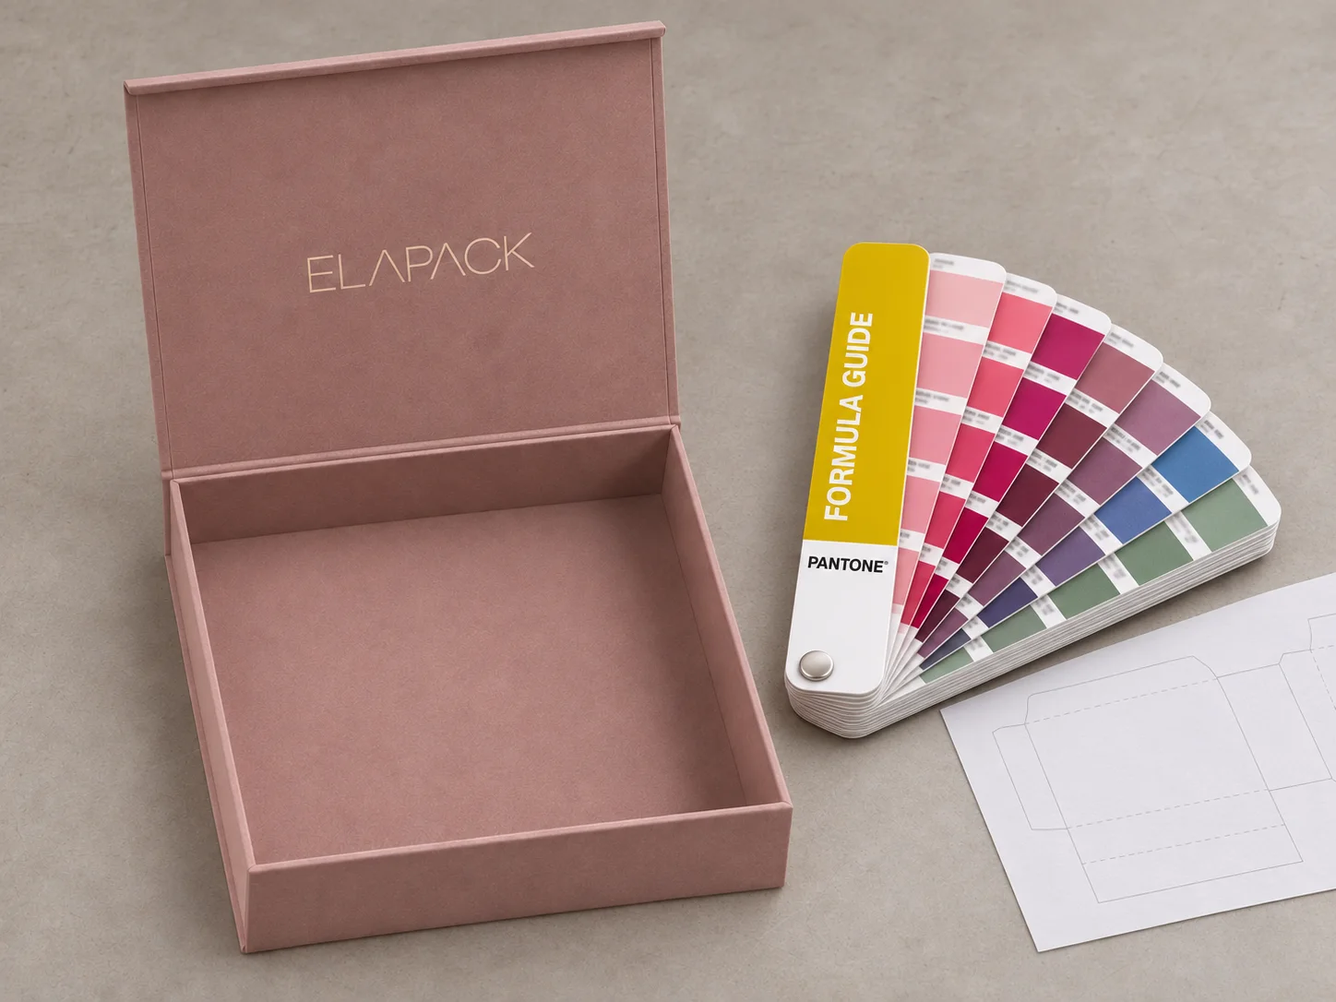
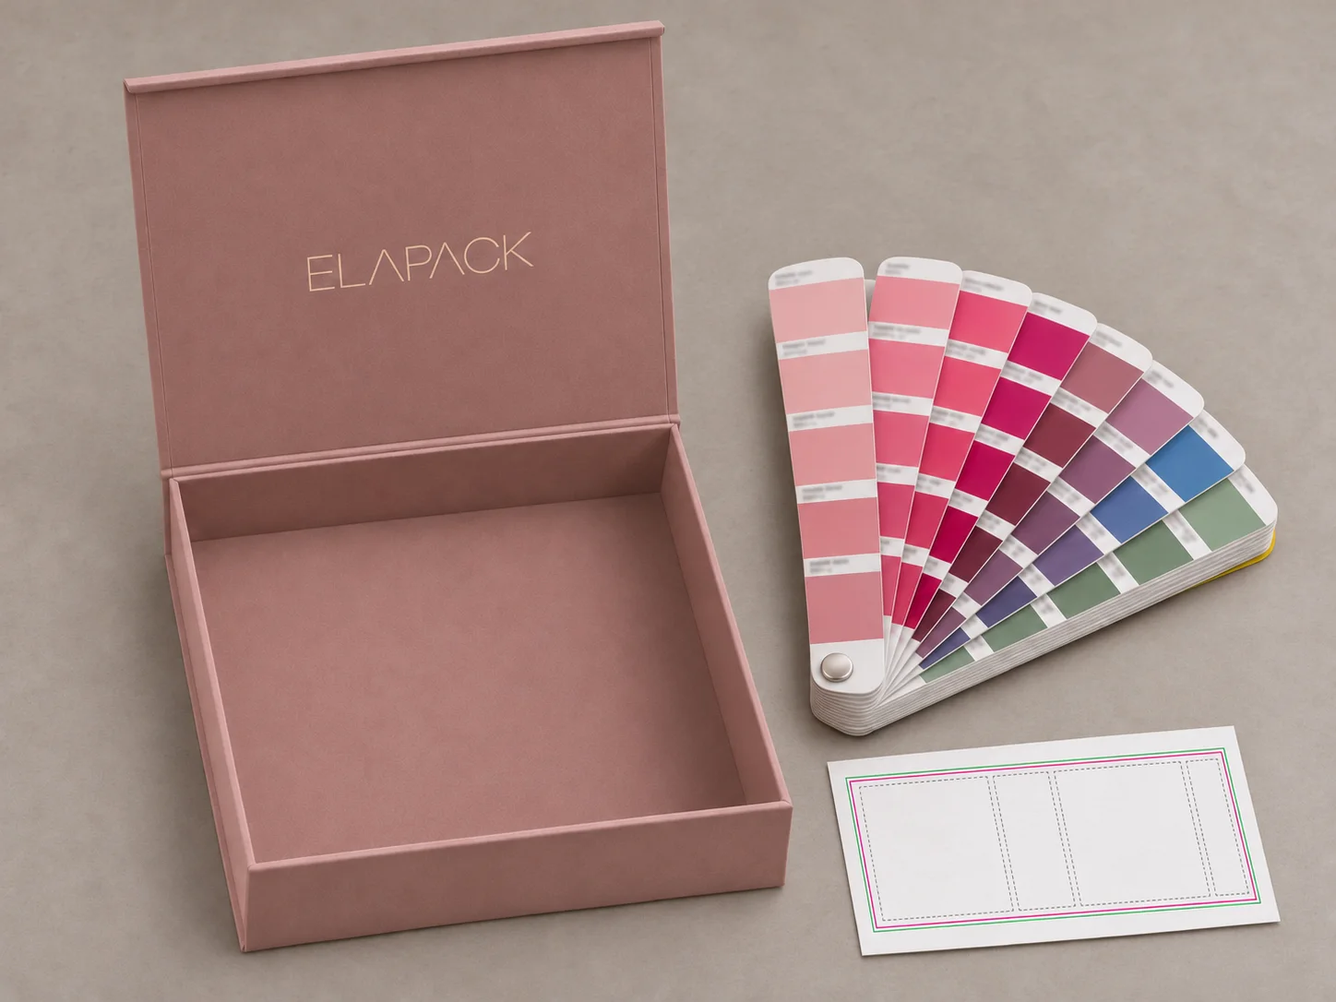
content(mothers-day): replace sample approval image
Claude-Session: https://claude.ai/code/session_01DKuRwisz2HQeega5Ni4rBJ

diff --git a/src/data/articles.ts b/src/data/articles.ts
@@ -849,7 +849,7 @@ export const articles: Article[] = ([
     "imageHeight": 1350,
     "excerpt": "Mother's Day 2027 is May 9 in the US and March 7 in the UK. With the factory closed for Chinese New Year from late January to about February 20, here are the three routes that still arrive on time.",
     "metaDescription": "Mother's Day 2027 is May 9 (US) and March 7 (UK). With factories closed from late January to about February 20, here is when to order gift boxes, pouches and cards.",
-    "body": "*Holiday dates are taken from published calendars cited under Sources. Factory closure dates, sample, production and freight figures are ELAPACK's confirmed terms for the 2027 season; warehouse and fulfilment dates are planning assumptions to replace with your own calendar.*\n\n> **Quick answer:** Mother's Day 2027 is Sunday, May 9 in the US and Sunday, March 7 in the UK. Our factory closes for Chinese New Year from the end of January to around February 20, so the dates that matter are earlier than they look: for UK Mothering Sunday, produce and ship before the shutdown, with the sample approved in December; for the US, either produce before the shutdown, or approve the sample before it and ship by sea in mid-March, or ship by air in early April. Production that finishes after April 30 waits out the May 1–5 holiday and lands after May 9.\n\nThis guide is for brands planning Mother's Day gift sets, gift-with-purchase pouches or seasonal boxes made in China. It does not cover design themes or pricing. It answers one question: when does each step have to happen for packaging to arrive in time?\n\n## Key takeaways\n\n- Mother's Day 2027 falls on **May 9 in the US** and **March 7 in the UK** (Mothering Sunday, three weeks before Easter).\n- Chinese New Year 2027 is an official holiday from February 5 to 13. Our factory closes from the end of January and returns to normal production around **February 20** — a stop of about three weeks in the middle of the spring ordering window.\n- **UK, March 7:** production after the restart finishes too late. Approve the sample by late December and finish production before the shutdown.\n- **US, May 9:** three routes work — produce before the shutdown; approve the sample before the shutdown and ship by sea in mid-March; or ship by air in early April.\n- The **May 1–5** Labour Day holiday is the last wall: anything not dispatched by April 30 restarts on May 6 and arrives after Mother's Day.\n- ELAPACK clocks: custom sample USD 30 plus USD 25 shipping, built in 3–5 days; production 15–20 days after sample approval and payment receipt; US transit about 8–12 days by air or 15–20 days by sea. MOQ 200 pieces per component.\n\n## When is Mother's Day 2027?\n\n| Market | Date | How the date is set |\n|---|---|---|\n| United States | Sunday, May 9, 2027 | Second Sunday of May |\n| United Kingdom | Sunday, March 7, 2027 | Mothering Sunday, the fourth Sunday of Lent, three weeks before Easter |\n| Mexico and much of Latin America | Monday, May 10, 2027 | Fixed on May 10 |\n\nThe two dates are two months apart, and in 2027 the UK date is early. A brand selling in both markets is really running two programmes: a UK one that has to be finished before Chinese New Year, and a US one that can straddle it.\n\n## Why does Chinese New Year decide a May delivery date?\n\nBecause the factory stops for about three weeks in the middle of the window, and nothing in the chain moves while it is closed.\n\n| 2027 holiday | Official dates | What it means for your order |\n|---|---|---|\n| New Year's Day | January 1–3 | A short stop; production resumes January 4 |\n| Chinese New Year | February 5–13 (official) | **ELAPACK closes from the end of January and returns to normal production around February 20** |\n| Qingming Festival | April 3–5 | An official holiday inside the air route's production window; confirm the working days with your supplier |\n| Labour Day | May 1–5 (official, with May 8 a working day) | No production or dispatch; air shipments restart May 6 |\n\nThe official holiday is nine days, but the working stop is longer. Production lines wind down before New Year's Eve, as staff travel home, and restart over the following week. That is why the closure runs from the end of January to around February 20, not from February 5 to 13. Plan on the factory dates, not the official ones.\n\nTwo things follow:\n\n1. **A sample approved after the shutdown starts production after February 20 at the earliest**, behind every order that was confirmed before the holiday.\n2. **Freight space usually tightens before the holiday**, as factories across China try to ship before they close. Book freight early in January rather than in the last week.\n\n## How do you count back from May 9?\n\n![Mother's Day 2027 timeline: Route A produces before the Chinese New Year shutdown, Route B approves the sample before it and ships by sea in mid-March, Route C ships by air in early April; UK March 7 and US May 9 marked](/charts/mothers-day-2027-timeline.svg)\n\nStart from the date the packaging must be in your warehouse, not from May 9 itself. Gift sets need packing and listing time, and Mother's Day promotions start well before the day. This guide assumes **packaging in a US warehouse by about April 10–16**; move every date below if your own calendar is earlier.\n\n### Route A — produce before the shutdown (UK or US)\n\nThe safest route, and the only one that works for March 7.\n\n| Step | Date |\n|---|---|\n| Artwork and dieline final | by December 11, 2026 |\n| Custom sample built (3–5 days) and approved | by December 23, 2026 |\n| Payment received; production starts | January 4, 2027 |\n| Production finishes (15–20 days) | around January 20–24 |\n| Dispatch | before the end-of-January shutdown |\n| In a US warehouse by sea (15–20 days plus clearance) | late February |\n\nFor the UK, confirm the transit time to your warehouse with your forwarder before choosing sea or air: March 7 leaves little room for a long sea crossing.\n\n![Blush magnetic gift box sample with a gold foil logo beside a Pantone colour guide and a printed dieline, ready for colour and structure approval](/images/news/mothers-day-sample-approval.webp)\n\nThe sample round is where colour and structure are fixed: the box is checked against the Pantone reference and the approved dieline before production is booked.\n\n### Route B — approve before the shutdown, ship by sea after it (US)\n\n| Step | Date |\n|---|---|\n| Artwork and dieline final | by January 8, 2027 |\n| Sample approved and payment received | **by January 22, before the shutdown** |\n| Production after restart | around February 22 to March 14 |\n| Sea dispatch | mid-March |\n| In a US warehouse (15–20 days plus clearance) | around April 10 |\n\nThis route has **no buffer**. A second sample round, a late payment or a slow customs clearance pushes arrival past mid-April. Use it only if the design is settled and the brief has been sampled before.\n\n### Route C — sample after the restart, ship by air (US)\n\n| Step | Date |\n|---|---|\n| Artwork and dieline final | by February 26, 2027 |\n| Sample built after restart and approved | by March 12 |\n| Production | around March 15 to April 4 |\n| Air dispatch | early April |\n| In a US warehouse (about 8–12 days) | around April 12–16 |\n\nAir freight costs more per kilo than sea, so Route C suits lighter items — pouches, cards and small boxes — or smaller quantities. A large run of rigid gift boxes is usually cheaper on Route A or B.\n\n## What is the last safe date for each step?\n\n| Step | Last safe date for a May 9 US programme |\n|---|---|\n| Sea: sample approved and paid | January 22 (before the shutdown) |\n| Sea: dispatch from China | mid-March |\n| Air: sample approved | mid-March |\n| Air: dispatch from China | April 30 — after this, the May 1–5 holiday holds dispatch until May 6 |\n\nThe April 30 date is a wall, not a target. Air freight dispatched on May 6 arrives from about May 14, after Mother's Day. Packaging that misses it can only be used for a post-holiday or next-season promotion.\n\n## What about UK Mothering Sunday on March 7?\n\nIt sits two weeks after the factory reopens, so production after the restart cannot make it. **For the UK, Mother's Day packaging is a December decision:** artwork final by mid-December, sample approved before Christmas, production in early January and dispatch before the end-of-January shutdown.\n\n![Navy and burgundy velvet gift-with-purchase pouches with silver foil logos, made for a UK beauty brand's seasonal promotions](/images/case-studies/velvet-gwp-pouches-hero.webp)\n\nIf you are reading this after mid-December, simplify the brief — fewer components, a structure you have sampled before, a print method already proven — and ship by air.\n\n## Which packaging should be ordered together?\n\nA Mother's Day programme is usually three or four components — a gift box, a pouch, a card and a ribbon or sleeve — and the slowest one sets the date. Order them together, on one timeline and one sample round:\n\n![Mother's Day gift set in one blush colour: a magnetic gift box with a gold foil logo holding a velvet drawstring pouch, with a matching card and satin ribbon](/images/news/mothers-day-gift-set.webp)\n\n- **Gift boxes:** [magnetic closure gift boxes](https://elapack.com/products/magnetic-closure-gift-box/) take the longest — board, wrap, insert and logo all need approval.\n- **Pouches:** [velvet pouches](https://elapack.com/products/custom-velvet-pouches/) suit gift-with-purchase programmes. For a worked example, see how a UK beauty brand [ran velvet GWP pouches](https://elapack.com/case-studies/velvet-gwp-pouches-beauty-brand/) for seasonal promotions.\n- **Cards:** [thank you and greeting cards](https://elapack.com/news/custom-thank-you-cards-guide/) are fast to print but need final copy, so lock the wording with the box artwork.\n\nEach component has a minimum of 200 pieces. Colour matching across a box and a pouch is set on the sample, so approve all components in the same round; [packaging colour tolerance](https://elapack.com/news/packaging-colour-tolerance-explained/) explains how matched colours are checked.\n\n## Your dated order plan\n\nCopy these lines into your own planning note and fill in the dates from your calendar:\n\n1. Packaging needed in the warehouse: ___ (this guide assumes April 10–16 for the US)\n2. Route: A (before the shutdown), B (sea after it) or C (air after it)\n3. Artwork and dieline final: ___\n4. Sample approved and payment sent: ___ (before January 22 for Routes A and B)\n5. Production window: ___ (15–20 days after approval and payment)\n6. Dispatch date and freight mode: ___ (air no later than April 30)\n\n[Send your components, quantities and target warehouse date](https://elapack.com/contact/) and we will confirm the route and dates in the quotation. We reply within one business day. For the same planning method applied to other holidays, see the [Valentine's Day](https://elapack.com/news/valentines-day-packaging-timeline/) and [Christmas](https://elapack.com/news/christmas-packaging-ordering-timeline/) timelines.\n\n## Frequently asked questions\n\n### When should I order Mother's Day packaging from China?\n\nFor the US, approve the sample before the end of January if you ship by sea, or by mid-March if you ship by air. For the UK, approve it before Christmas. Artwork has to be final one to two weeks before each of those dates.\n\n### How long is the Chinese New Year factory shutdown in 2027?\n\nThe official holiday is February 5–13. ELAPACK closes from the end of January and returns to normal production around February 20, about three weeks in total. Other factories set their own dates, so ask each supplier.\n\n### Can packaging still arrive for Mother's Day if I order in March?\n\nYes, for the US, by air: approve the sample by mid-March and the order can ship in early April. Production that is not finished and dispatched by April 30 waits for the May 1–5 holiday to end and arrives after May 9.\n\n### Is there a factory holiday in May?\n\nYes. Labour Day runs from May 1 to 5, 2027. ELAPACK does not produce or dispatch during those days.\n\n## Sources\n\n- General Office of the State Council, \"Notice on the arrangement of some holidays in 2027\" (published November 5, 2026), via Xinhua — https://www.news.cn/politics/20261105/f90cd6ad4df94ab4833b141e52ccfc13/c.html\n- Office Holidays, \"Mother's Day in USA in 2027\" — https://www.officeholidays.com/countries/usa/mothers_day.php\n- Office Holidays, \"Mothering Sunday in United Kingdom in 2027\" — https://www.officeholidays.com/holidays/united-kingdom/mothering-sunday\n- ELAPACK confirmed terms (2027 season): factory closed from the end of January to around February 20 for Chinese New Year and May 1–5 for Labour Day; custom sample USD 30 plus USD 25 shipping, built in 3–5 days; production 15–20 days after sample approval and payment receipt for 200–20,000 pieces; US transit about 8–12 days by air or 15–20 days by sea; MOQ 200 pieces per component."
+    "body": "*Holiday dates are taken from published calendars cited under Sources. Factory closure dates, sample, production and freight figures are ELAPACK's confirmed terms for the 2027 season; warehouse and fulfilment dates are planning assumptions to replace with your own calendar.*\n\n> **Quick answer:** Mother's Day 2027 is Sunday, May 9 in the US and Sunday, March 7 in the UK. Our factory closes for Chinese New Year from the end of January to around February 20, so the dates that matter are earlier than they look: for UK Mothering Sunday, produce and ship before the shutdown, with the sample approved in December; for the US, either produce before the shutdown, or approve the sample before it and ship by sea in mid-March, or ship by air in early April. Production that finishes after April 30 waits out the May 1–5 holiday and lands after May 9.\n\nThis guide is for brands planning Mother's Day gift sets, gift-with-purchase pouches or seasonal boxes made in China. It does not cover design themes or pricing. It answers one question: when does each step have to happen for packaging to arrive in time?\n\n## Key takeaways\n\n- Mother's Day 2027 falls on **May 9 in the US** and **March 7 in the UK** (Mothering Sunday, three weeks before Easter).\n- Chinese New Year 2027 is an official holiday from February 5 to 13. Our factory closes from the end of January and returns to normal production around **February 20** — a stop of about three weeks in the middle of the spring ordering window.\n- **UK, March 7:** production after the restart finishes too late. Approve the sample by late December and finish production before the shutdown.\n- **US, May 9:** three routes work — produce before the shutdown; approve the sample before the shutdown and ship by sea in mid-March; or ship by air in early April.\n- The **May 1–5** Labour Day holiday is the last wall: anything not dispatched by April 30 restarts on May 6 and arrives after Mother's Day.\n- ELAPACK clocks: custom sample USD 30 plus USD 25 shipping, built in 3–5 days; production 15–20 days after sample approval and payment receipt; US transit about 8–12 days by air or 15–20 days by sea. MOQ 200 pieces per component.\n\n## When is Mother's Day 2027?\n\n| Market | Date | How the date is set |\n|---|---|---|\n| United States | Sunday, May 9, 2027 | Second Sunday of May |\n| United Kingdom | Sunday, March 7, 2027 | Mothering Sunday, the fourth Sunday of Lent, three weeks before Easter |\n| Mexico and much of Latin America | Monday, May 10, 2027 | Fixed on May 10 |\n\nThe two dates are two months apart, and in 2027 the UK date is early. A brand selling in both markets is really running two programmes: a UK one that has to be finished before Chinese New Year, and a US one that can straddle it.\n\n## Why does Chinese New Year decide a May delivery date?\n\nBecause the factory stops for about three weeks in the middle of the window, and nothing in the chain moves while it is closed.\n\n| 2027 holiday | Official dates | What it means for your order |\n|---|---|---|\n| New Year's Day | January 1–3 | A short stop; production resumes January 4 |\n| Chinese New Year | February 5–13 (official) | **ELAPACK closes from the end of January and returns to normal production around February 20** |\n| Qingming Festival | April 3–5 | An official holiday inside the air route's production window; confirm the working days with your supplier |\n| Labour Day | May 1–5 (official, with May 8 a working day) | No production or dispatch; air shipments restart May 6 |\n\nThe official holiday is nine days, but the working stop is longer. Production lines wind down before New Year's Eve, as staff travel home, and restart over the following week. That is why the closure runs from the end of January to around February 20, not from February 5 to 13. Plan on the factory dates, not the official ones.\n\nTwo things follow:\n\n1. **A sample approved after the shutdown starts production after February 20 at the earliest**, behind every order that was confirmed before the holiday.\n2. **Freight space usually tightens before the holiday**, as factories across China try to ship before they close. Book freight early in January rather than in the last week.\n\n## How do you count back from May 9?\n\n![Mother's Day 2027 timeline: Route A produces before the Chinese New Year shutdown, Route B approves the sample before it and ships by sea in mid-March, Route C ships by air in early April; UK March 7 and US May 9 marked](/charts/mothers-day-2027-timeline.svg)\n\nStart from the date the packaging must be in your warehouse, not from May 9 itself. Gift sets need packing and listing time, and Mother's Day promotions start well before the day. This guide assumes **packaging in a US warehouse by about April 10–16**; move every date below if your own calendar is earlier.\n\n### Route A — produce before the shutdown (UK or US)\n\nThe safest route, and the only one that works for March 7.\n\n| Step | Date |\n|---|---|\n| Artwork and dieline final | by December 11, 2026 |\n| Custom sample built (3–5 days) and approved | by December 23, 2026 |\n| Payment received; production starts | January 4, 2027 |\n| Production finishes (15–20 days) | around January 20–24 |\n| Dispatch | before the end-of-January shutdown |\n| In a US warehouse by sea (15–20 days plus clearance) | late February |\n\nFor the UK, confirm the transit time to your warehouse with your forwarder before choosing sea or air: March 7 leaves little room for a long sea crossing.\n\n![Blush magnetic gift box sample with a gold foil logo beside a colour swatch fan and a printed dieline, ready for colour and structure approval](/images/news/mothers-day-sample-approval.webp)\n\nThe sample round is where colour and structure are fixed: the box is checked against the agreed colour reference and the approved dieline before production is booked.\n\n### Route B — approve before the shutdown, ship by sea after it (US)\n\n| Step | Date |\n|---|---|\n| Artwork and dieline final | by January 8, 2027 |\n| Sample approved and payment received | **by January 22, before the shutdown** |\n| Production after restart | around February 22 to March 14 |\n| Sea dispatch | mid-March |\n| In a US warehouse (15–20 days plus clearance) | around April 10 |\n\nThis route has **no buffer**. A second sample round, a late payment or a slow customs clearance pushes arrival past mid-April. Use it only if the design is settled and the brief has been sampled before.\n\n### Route C — sample after the restart, ship by air (US)\n\n| Step | Date |\n|---|---|\n| Artwork and dieline final | by February 26, 2027 |\n| Sample built after restart and approved | by March 12 |\n| Production | around March 15 to April 4 |\n| Air dispatch | early April |\n| In a US warehouse (about 8–12 days) | around April 12–16 |\n\nAir freight costs more per kilo than sea, so Route C suits lighter items — pouches, cards and small boxes — or smaller quantities. A large run of rigid gift boxes is usually cheaper on Route A or B.\n\n## What is the last safe date for each step?\n\n| Step | Last safe date for a May 9 US programme |\n|---|---|\n| Sea: sample approved and paid | January 22 (before the shutdown) |\n| Sea: dispatch from China | mid-March |\n| Air: sample approved | mid-March |\n| Air: dispatch from China | April 30 — after this, the May 1–5 holiday holds dispatch until May 6 |\n\nThe April 30 date is a wall, not a target. Air freight dispatched on May 6 arrives from about May 14, after Mother's Day. Packaging that misses it can only be used for a post-holiday or next-season promotion.\n\n## What about UK Mothering Sunday on March 7?\n\nIt sits two weeks after the factory reopens, so production after the restart cannot make it. **For the UK, Mother's Day packaging is a December decision:** artwork final by mid-December, sample approved before Christmas, production in early January and dispatch before the end-of-January shutdown.\n\n![Navy and burgundy velvet gift-with-purchase pouches with silver foil logos, made for a UK beauty brand's seasonal promotions](/images/case-studies/velvet-gwp-pouches-hero.webp)\n\nIf you are reading this after mid-December, simplify the brief — fewer components, a structure you have sampled before, a print method already proven — and ship by air.\n\n## Which packaging should be ordered together?\n\nA Mother's Day programme is usually three or four components — a gift box, a pouch, a card and a ribbon or sleeve — and the slowest one sets the date. Order them together, on one timeline and one sample round:\n\n![Mother's Day gift set in one blush colour: a magnetic gift box with a gold foil logo holding a velvet drawstring pouch, with a matching card and satin ribbon](/images/news/mothers-day-gift-set.webp)\n\n- **Gift boxes:** [magnetic closure gift boxes](https://elapack.com/products/magnetic-closure-gift-box/) take the longest — board, wrap, insert and logo all need approval.\n- **Pouches:** [velvet pouches](https://elapack.com/products/custom-velvet-pouches/) suit gift-with-purchase programmes. For a worked example, see how a UK beauty brand [ran velvet GWP pouches](https://elapack.com/case-studies/velvet-gwp-pouches-beauty-brand/) for seasonal promotions.\n- **Cards:** [thank you and greeting cards](https://elapack.com/news/custom-thank-you-cards-guide/) are fast to print but need final copy, so lock the wording with the box artwork.\n\nEach component has a minimum of 200 pieces. Colour matching across a box and a pouch is set on the sample, so approve all components in the same round; [packaging colour tolerance](https://elapack.com/news/packaging-colour-tolerance-explained/) explains how matched colours are checked.\n\n## Your dated order plan\n\nCopy these lines into your own planning note and fill in the dates from your calendar:\n\n1. Packaging needed in the warehouse: ___ (this guide assumes April 10–16 for the US)\n2. Route: A (before the shutdown), B (sea after it) or C (air after it)\n3. Artwork and dieline final: ___\n4. Sample approved and payment sent: ___ (before January 22 for Routes A and B)\n5. Production window: ___ (15–20 days after approval and payment)\n6. Dispatch date and freight mode: ___ (air no later than April 30)\n\n[Send your components, quantities and target warehouse date](https://elapack.com/contact/) and we will confirm the route and dates in the quotation. We reply within one business day. For the same planning method applied to other holidays, see the [Valentine's Day](https://elapack.com/news/valentines-day-packaging-timeline/) and [Christmas](https://elapack.com/news/christmas-packaging-ordering-timeline/) timelines.\n\n## Frequently asked questions\n\n### When should I order Mother's Day packaging from China?\n\nFor the US, approve the sample before the end of January if you ship by sea, or by mid-March if you ship by air. For the UK, approve it before Christmas. Artwork has to be final one to two weeks before each of those dates.\n\n### How long is the Chinese New Year factory shutdown in 2027?\n\nThe official holiday is February 5–13. ELAPACK closes from the end of January and returns to normal production around February 20, about three weeks in total. Other factories set their own dates, so ask each supplier.\n\n### Can packaging still arrive for Mother's Day if I order in March?\n\nYes, for the US, by air: approve the sample by mid-March and the order can ship in early April. Production that is not finished and dispatched by April 30 waits for the May 1–5 holiday to end and arrives after May 9.\n\n### Is there a factory holiday in May?\n\nYes. Labour Day runs from May 1 to 5, 2027. ELAPACK does not produce or dispatch during those days.\n\n## Sources\n\n- General Office of the State Council, \"Notice on the arrangement of some holidays in 2027\" (published November 5, 2026), via Xinhua — https://www.news.cn/politics/20261105/f90cd6ad4df94ab4833b141e52ccfc13/c.html\n- Office Holidays, \"Mother's Day in USA in 2027\" — https://www.officeholidays.com/countries/usa/mothers_day.php\n- Office Holidays, \"Mothering Sunday in United Kingdom in 2027\" — https://www.officeholidays.com/holidays/united-kingdom/mothering-sunday\n- ELAPACK confirmed terms (2027 season): factory closed from the end of January to around February 20 for Chinese New Year and May 1–5 for Labour Day; custom sample USD 30 plus USD 25 shipping, built in 3–5 days; production 15–20 days after sample approval and payment receipt for 200–20,000 pieces; US transit about 8–12 days by air or 15–20 days by sea; MOQ 200 pieces per component."
   },
   {
     "slug": "valentines-day-packaging-timeline",
